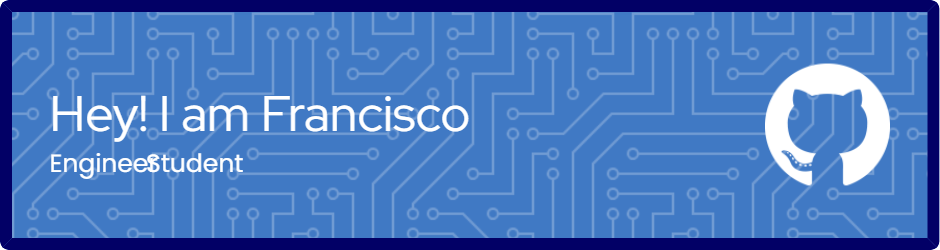
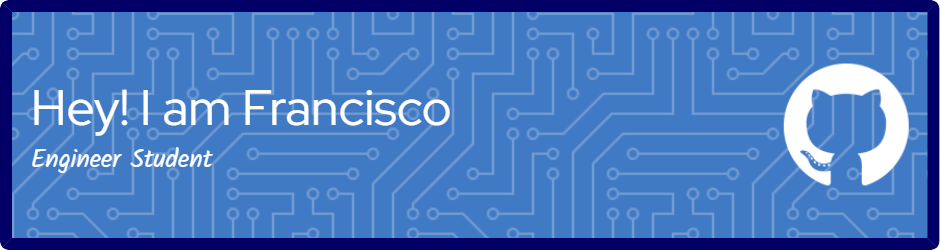
FEAT new bio

Changed region(s): [[0.0309, 0.364, 0.5245, 0.56], [0.8021, 0.252, 0.9872, 0.756], [0.0309, 0.588, 0.2777, 0.728]]

diff --git a/README.md b/README.md
@@ -1,10 +1,27 @@
+<h1 align="center">
+  Hi there, I'm Francisco González! 👋
+  <img src="full-stack-gif.gif" alt="Animation" width="100" />
+</h1>
 
-👋 Hola, soy @fgonzalezurriola.
-📫 Cómo contactarme fgonzalezurriola@gmail.com 
-⚡ Dato curioso: el aoe2 es divertido
 
 
-<!---
-fgonzalezurriola/fgonzalezurriola is a ✨ special ✨ repository because its `README.md` (this file) appears on your GitHub profile.
-You can click the Preview link to take a look at your changes.
---->
+
+![Banner de Francisco González](github-header-image1.png)
+
+- 🔭 I’m currently working on Flask and React
+- 🌱 I’m currently learning software development
+- 📚 My UChile projects: 
+- ⚡ Fun fact: 
+
+## Tecnologías 💻
+![Postgres](https://img.shields.io/badge/postgres-%23316192.svg?style=for-the-badge&logo=postgresql&logoColor=white)
+![Docker](https://img.shields.io/badge/docker-%230db7ed.svg?style=for-the-badge&logo=docker&logoColor=white)
+![Python](https://img.shields.io/badge/python-3670A0?style=for-the-badge&logo=python&logoColor=ffdd54) 
+![Scala](https://img.shields.io/badge/scala-%23DC322F.svg?style=for-the-badge&logo=scala&logoColor=white) 
+![JavaScript](https://img.shields.io/badge/javascript-%23323330.svg?style=for-the-badge&logo=javascript&logoColor=%23F7DF1E) 
+![HTML5](https://img.shields.io/badge/html5-%23E34F26.svg?style=for-the-badge&logo=html5&logoColor=white) 	
+![CSS3](https://img.shields.io/badge/css3-%231572B6.svg?style=for-the-badge&logo=css3&logoColor=white)
+
+## Contactos 📜
+[![Telegram](https://img.shields.io/badge/Telegram-2CA5E0?style=for-the-badge&logo=telegram&logoColor=white)](https://t.me/fgonzalezurriola)
+[![Gmail](https://img.shields.io/badge/Gmail-D14836?style=for-the-badge&logo=gmail&logoColor=white)](mailto:fgonzalezurriola@gmail.com)
